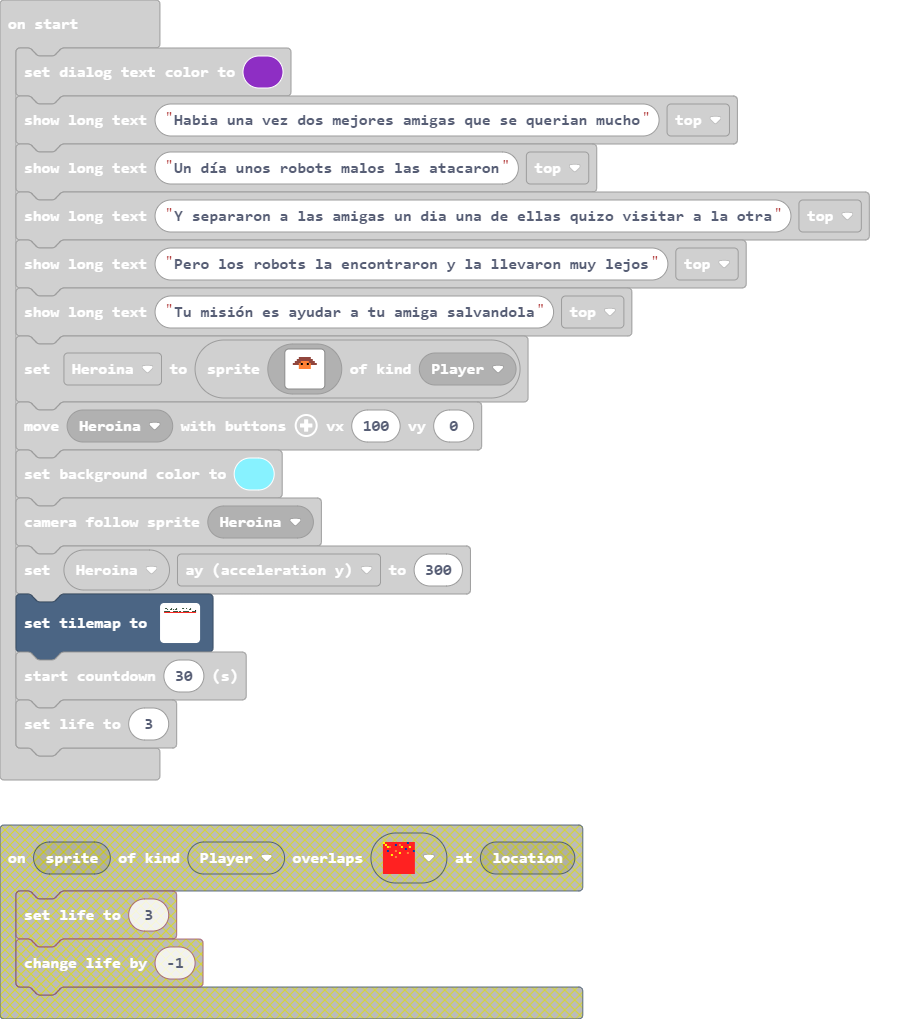
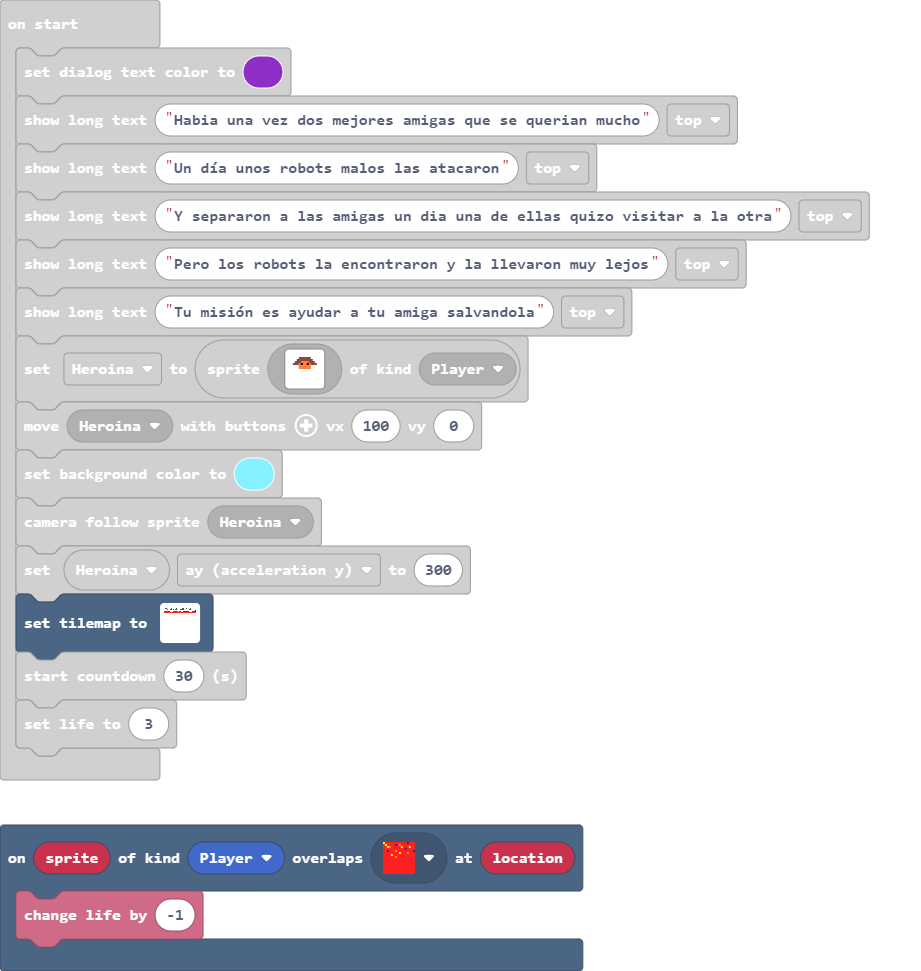
Puse lava

Changed region(s): [[0.0, 0.0309, 0.9425, 1.0]]

diff --git a/main.ts b/main.ts
@@ -69,6 +69,9 @@ controller.right.onEvent(ControllerButtonEvent.Pressed, function () {
         . . . . . . . . . . . . . . . . 
         `)
 })
+scene.onOverlapTile(SpriteKind.Player, myTiles.tile1, function (sprite, location) {
+    info.changeLifeBy(-1)
+})
 let projectile: Sprite = null
 let Heroina: Sprite = null
 game.setDialogTextColor(10)
@@ -99,10 +102,10 @@ controller.moveSprite(Heroina, 100, 0)
 scene.setBackgroundColor(9)
 scene.cameraFollowSprite(Heroina)
 Heroina.ay = 300
-tiles.setTilemap(tiles.createTilemap(hex`2000200000000000000000000000000000000000000000000000000000000000000000000001010000000001000000000100000000000101000001000000010000000000000000010000010100010001010000000000000000000000000101000000000000000000000000000000000000000000000000000000000000000000000000020101010101010000000101010101000101000001010101010100000001010101030303030303030303030303030303030303030303030303030303030303030300000000000000000000000000000000000000000000000000000000000000000000000000000000000000000000000000000000000000000000000000000000000000000000000000000000000000000000000000000000000000000000000000000000000000000000000000000000000000000000000000000000000000000000000000000000000000000000000000000000000000000000000000000000000000000000000000000000000000000000000000000000000000000000000000000000000000000000000000000000000000000000000000000000000000000000000000000000000000000000000000000000000000000000000000000000000000000000000000000000000000000000000000000000000000000000000000000000000000000000000000000000000000000000000000000000000000000000000000000000000000000000000000000000000000000000000000000000000000000000000000000000000000000000000000000000000000000000000000000000000000000000000000000000000000000000000000000000000000000000000000000000000000000000000000000000000000000000000000000000000000000000000000000000000000000000000000000000000000000000000000000000000000000000000000000000000000000000000000000000000000000000000000000000000000000000000000000000000000000000000000000000000000000000000000000000000000000000000000000000000000000000000000000000000000000000000000000000000000000000000000000000000000000000000000000000000000000000000000000000000000000000000000000000000000000000000000000000000000000000000000000000000000000000000000000000000000000000000000000000000000000000000000000000000000000000000000000000000000000000000000000000000000000000000000000000000000000000000000000000000000000000000000000000000000000000000000000000000000000000000000000000000000000000000000000000000000000000000000000000000000000000000000000000000000000000000000000000`, img`
+tiles.setTilemap(tiles.createTilemap(hex`2000200000000000000000000000000000000000000000000000000000000000000000000001010000000001000000000100000000000101000001000000010000000000000000010000010100010001010000000101010100000000000101000000000000000000000000000000000000000000000000000000000000000000000000020101010101010000000101010101000101000001010101010100000001010101030303030303030303030303030303030303030303030303030303030303030300000000000000000000000000000000000000000000000000000000000000000000000000000000000000000000000000000000000000000000000000000000000000000000000000000000000000000000000000000000000000000000000000000000000000000000000000000000000000000000000000000000000000000000000000000000000000000000000000000000000000000000000000000000000000000000000000000000000000000000000000000000000000000000000000000000000000000000000000000000000000000000000000000000000000000000000000000000000000000000000000000000000000000000000000000000000000000000000000000000000000000000000000000000000000000000000000000000000000000000000000000000000000000000000000000000000000000000000000000000000000000000000000000000000000000000000000000000000000000000000000000000000000000000000000000000000000000000000000000000000000000000000000000000000000000000000000000000000000000000000000000000000000000000000000000000000000000000000000000000000000000000000000000000000000000000000000000000000000000000000000000000000000000000000000000000000000000000000000000000000000000000000000000000000000000000000000000000000000000000000000000000000000000000000000000000000000000000000000000000000000000000000000000000000000000000000000000000000000000000000000000000000000000000000000000000000000000000000000000000000000000000000000000000000000000000000000000000000000000000000000000000000000000000000000000000000000000000000000000000000000000000000000000000000000000000000000000000000000000000000000000000000000000000000000000000000000000000000000000000000000000000000000000000000000000000000000000000000000000000000000000000000000000000000000000000000000000000000000000000000000000000000000000000000000000000000000000000`, img`
     . . . . . . . . . . . . . . . . . . . . . . . . . . . . . . . . 
     . 2 2 . . . . 2 . . . . 2 . . . . . 2 2 . . 2 . . . 2 . . . . . 
-    . . . 2 . . 2 2 . 2 . 2 2 . . . . . . . . . . . . 2 2 . . . . . 
+    . . . 2 . . 2 2 . 2 . 2 2 . . . 2 2 2 2 . . . . . 2 2 . . . . . 
     . . . . . . . . . . . . . . . . . . . . . . . . . . . . . . . . 
     2 2 2 2 2 2 . . . 2 2 2 2 2 . 2 2 . . 2 2 2 2 2 2 . . . 2 2 2 2 
     . . . . . . . . . . . . . . . . . . . . . . . . . . . . . . . . 
